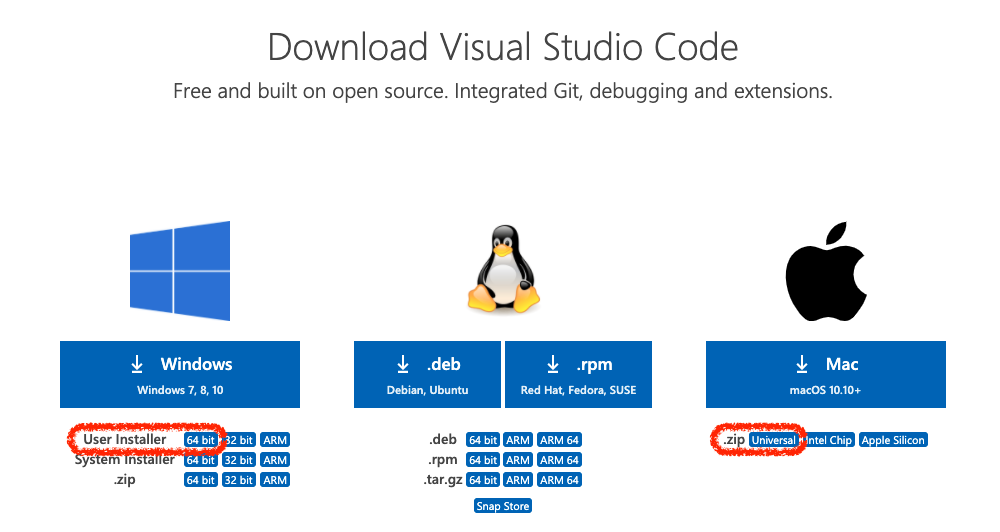
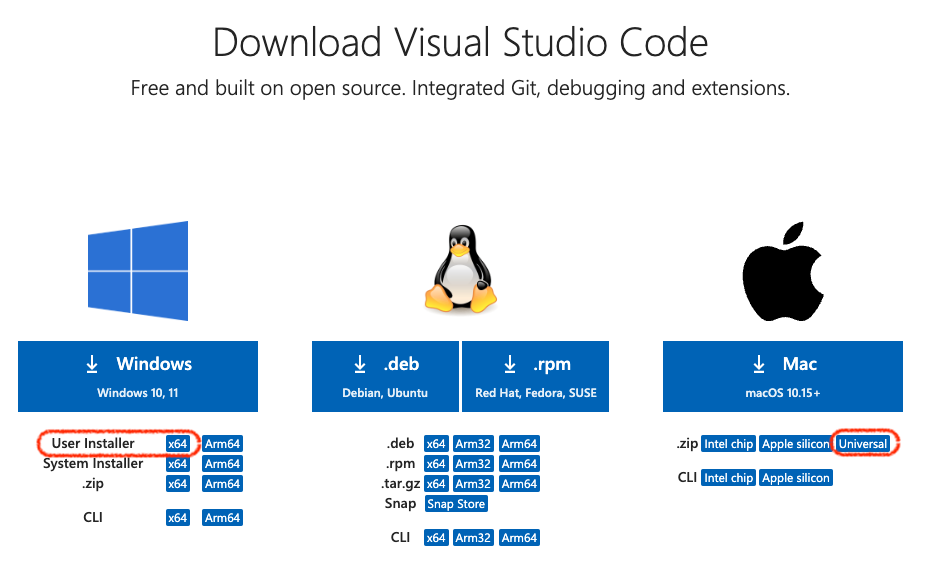
20240318

diff --git a/setup/InstallVSCode_win.md b/setup/InstallVSCode_win.md
@@ -6,10 +6,9 @@
 
 **(1) ダウンロードサイトへ**: https://code.visualstudio.com/download
 
-**(2) 特に理由がなければ Windows と記された箱の下の User Installer の 64bit を選択．**
+**(2) 特に理由がなければ Windows と記された箱の下の User Installer の x64 を選択．**
 
-- 「インストール対象のPCは自分が管理者で，システム全体に（自分以外のひとも使えるように）インストールしたい」というなら System Installer を選択するのもありです
-- 自分の環境が 32bit だというひとはそちらで
+「インストール対象のPCは自分が管理者で，システム全体に（自分以外のひとも使えるように）インストールしたい」というひとは，System Installer を選択するのもありです
 
 **(3) ダウンロードしたインストーラを実行．**
 
@@ -20,7 +19,7 @@
 デフォルトから変更したい理由がなければそのまま「次へ」
 
 1. 追加タスクの選択
-デフォルトでは「PATHへの追加」だけチェックがついていると思いますが，他のも全部チェックつけとくことをおすすめします
+デフォルトでは「PATHへの追加」他いくつかだけチェックがついていると思いますが，他のも全部チェックつけとくことをおすすめします
 
 1. インストール準備完了
 「インストール」をクリックしてインストール開始

diff --git a/setup/InstallPython_win.md b/setup/InstallPython_win.md
@@ -10,7 +10,7 @@ https://www.python.org/ から Python のパッケージをダウンロードし
 
 上記のウェブページへアクセスして「Downloads」にカーソルを置くと，「Donload for Windows」と記された窓が開いて「Python 3.X.Y」（X, Y は数字）というボタンが出現します． それをクリックしてファイルをダウンロードします． このファイルは， Python のパッケージとインストーラ（インストールを実行するプログラム）を兼ねてます．
 
-**【注意】 これを書いている時点では，上記で表示される Python のバージョンは 3.11.2 です．以下の画像では古いバージョン（3.9.6など）になっているかもしれません．適宜読み替えてください．**
+**【注意】 これを書いている時点では，上記で表示される Python のバージョンは 3.12.2  です．以下の画像では古いバージョン（3.11.2など）になっているかもしれません．適宜読み替えてください．**
 
 **(2) インストーラを起動してインストールする**
 

diff --git a/setup/README.md b/setup/README.md
@@ -2,7 +2,7 @@
 
 
 
-ここでは，[高橋担当の2023年度の「数理情報演習」](https://www-tlab.math.ryukoku.ac.jp/wiki/?SJE/2023)（以下SJE2023）の授業のための Python プログラミング環境をセットアップする方法について説明します．
+ここでは，[高橋担当の2024年度の「数理情報演習」](https://www-tlab.math.ryukoku.ac.jp/wiki/?SJE/2024)（以下SJE2023）の授業のための Python プログラミング環境をセットアップする方法について説明します．
 
 ## はじめに
 

diff --git a/README.md b/README.md
@@ -1,6 +1,6 @@
 # SJE
 
-「[数理情報演習](https://www-tlab.math.ryukoku.ac.jp/wiki/?SJE/2023)」の GitHub リポジトリです．
+「[数理情報演習](https://www-tlab.math.ryukoku.ac.jp/wiki/?SJE/2024)」の GitHub リポジトリです．
 
 - [setup/README.md](./setup/README.md)
 - [ex01.md](./ex01.md)
